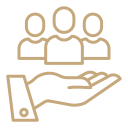
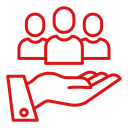
update-about-us-style

Changed region(s): [[0.0312, 0.0312, 0.9688, 0.9688]]

diff --git a/frontend/src/app/components/pages/about-us/about-us.component.css b/frontend/src/app/components/pages/about-us/about-us.component.css
@@ -1,3 +1,4 @@
+
 /****************************************image part1************************************/
 /**************************************************************************************/
 .pq-breadcrumb{
@@ -7,6 +8,12 @@
   background-size: cover;
   background-position: top center;
   height: 400px;
+  animation: fadeBackground 13s;
+  animation-fill-mode: forwards;
+}
+@keyframes fadeBackground {
+  from { background-image: url(https://cdn.pixabay.com/photo/2017/12/10/14/47/pizza-3010062_640.jpg); }
+  to { background-image: url(https://cdn.pixabay.com/photo/2016/11/06/23/31/breakfast-1804457_640.jpg); }
 }
 
 .pq-breadcrumb.container {
@@ -21,19 +28,19 @@ ol li {
 }
 .pq-breadcrumb-container a{
   text-decoration: none;
-  color: white;
+  color: black;
   font-size: 30px;
   font-family: 'Josefin Sans', sans-serif;
   /* font-weight: bold; */
 }
 .breadcrumb-item-active{
-  color: #c6a87d;
+  color: red;
   font-size: 30px;
   font-family: 'Josefin Sans', sans-serif;
-  margin-top: 7px;
+  /* margin-top: 7px; */
 }
 .breadcrumb-item span{
-  color: white;
+  color: rgb(220, 20, 20);
 }
 
 h3 {
@@ -59,12 +66,24 @@ li {
   align-items: center!important;
 }
 .pq-breadcrumb-title{
-  color: white;
-  font-size: 56px;
-  line-height: 64px;
-  margin-bottom: 15px;
-  font-family: 'Josefin Sans', sans-serif;
+  color: black;
+  font-size: 66px;
   font-weight: bold;
+  position: relative;
+  animation: slide-in 1s ease-in-out forwards;
+  opacity: 0;
+  right: -100%;
+}
+
+@keyframes slide-in {
+  0% {
+    opacity: 0;
+    right: -100%;
+  }
+  100% {
+    opacity: 1;
+    right: 0;
+  }
 }
 
 /****************************************End************************************/
@@ -89,20 +108,20 @@ li {
   padding: 35px;
 }
 .content span{
-  color: rgb(214, 192, 125);
+  color: rgb(220, 20, 20);
   font-family: 'Miniver', cursive;
   font-size: 28px;
 }
 .content h3{
-  color: white;
+  color: black;
   font-family: 'Josefin Sans', sans-serif;
   font-size: 45px;
   font-weight: bolder;
   display: inline;
 }
 .content p{
-  color: rgb(208, 201, 182);
-  font-family: 'Josefin Sans', sans-serif;
+  color: rgb(113, 111, 111);
+  /* font-family: 'Josefin Sans', sans-serif; */
   font-size: 28px;
   line-height: 1.3;
 }
@@ -112,38 +131,48 @@ li {
 } */
 .btn {
   align-items: center;
-  /* background-color: transparent; */
-  background-color: #13181c;
-  color: #c6a87d;
+  background-color: rgb(220, 20, 20);
+  color: white;
   cursor: pointer;
-  /* display: flex; */
-  font-family: 'Josefin Sans', sans-serif;  font-size: 1rem;
+  font-family: 'Josefin Sans', sans-serif;
+  font-size: 1rem;
   line-height: 1.5;
   text-decoration: none;
   outline: 0;
-  border: 1px solid #c6a87d;
+  border: 1px solid #dc1414;
   padding: 1rem;
   letter-spacing: 3px;
   width: 400px;
   justify-content: center;
   font-size: 24px;
+  position: relative;
 }
 
-.btn:before {
+.btn:after {
   content: "";
-  height: 1px;
-  margin-right: 10px;
-  transition: all .42s cubic-bezier(.25,.8,.25,1);
-  width: 0;
+  position: absolute;
+  left: 0;
+  bottom: 0;
+  width: 100%;
+  height: 2px;
+  background-color: white;
+  transform: scaleX(0);
+  transform-origin: left;
+  transition: transform 0.3s ease-in-out;
 }
 
+.btn:hover:after {
+  transform: scaleX(1);
+}
 .btn:hover:before {
   background-color: white;
   width: 3rem;
 }
 .btn:hover{
-  background-color: #c6a87d;
-  color: white;
+  background-color: white;
+  border: 1px solid rgb(220, 20, 20);
+  color: rgb(220, 20, 20);
+  font-weight: bold;
 }
 @media (max-width: 1768px){
   .btn{
@@ -186,15 +215,15 @@ li {
 }
 .box span{
   padding-top: 200px;
-  color: white;
+  color: rgb(220, 20, 20);
   font-family: 'Josefin Sans', sans-serif;
   font-size: 38px;
   font-weight: bold;
 
 }
 .box p{
-  color: rgb(208, 201, 182);
-  font-family: 'Josefin Sans', sans-serif;
+  color: black;
+  /* font-family: 'Josefin Sans', sans-serif; */
   font-size: 28px;
   line-height: 1.3;
 }
@@ -227,7 +256,7 @@ body::before{
   height: 100%;
 }
 ::selection{
-  background:    #c6a87d;
+  background:    rgb(220, 20, 20);
   color: #fff;
 }
 .team{
@@ -240,7 +269,7 @@ body::before{
 }
 .team h1{
   font-size: 35px;
-  color: rgb(214, 192, 125);
+  color: rgb(220, 20, 20);
   font-family: 'Miniver', cursive;
 }
 .container{
@@ -271,7 +300,7 @@ body::before{
 }
 .main-card .cards .card{
   width: calc(100% / 3 - 10px);
-  background: #080b0e;
+  background: white;
   border-radius: 12px;
   padding: 30px;
   box-shadow: 0 5px 10px rgba(0, 0, 0, 0.25);
@@ -293,7 +322,7 @@ body::before{
   width: 130px;
   border-radius: 50%;
   padding: 3px;
-  background: #c6a87d;
+  background: rgb(220, 20, 20);
   margin-bottom: 14px;
 }
 .card .content .img img{
@@ -306,10 +335,10 @@ body::before{
 .card .content .name{
   font-size: 22px;
   font-weight: 400;
-  color: white;
+  color: black;
 }
 .card .content .job{
-  color: rgb(208, 201, 182);
+  color: black;
   font-family: 'Josefin Sans', sans-serif;
   font-size: 28px;
   line-height: 1.3;
@@ -328,13 +357,13 @@ body::before{
   color: #FFF;
   border-radius: 50%;
   border: 2px solid transparent;
-  background: #c6a87d;
+  background: rgb(220, 20, 20);
   transition: all 0.3s ease;
 }
 .media-icons a:hover{
-  color: #c6a87d;
+  color: rgb(220, 20, 20);
   background-color: #fff;
-  border-color: #c6a87d;
+  border-color: rgb(220, 20, 20);
 }
  .container .button{
   width: 100%;
@@ -347,7 +376,7 @@ body::before{
   height: 15px;
   width: 15px;
   border-radius: 20px;
-  background: #fff;
+  background: rgb(220, 20, 20);
   margin: 0 4px;
   cursor: pointer;
   transition: all 0.5s ease;
@@ -392,7 +421,7 @@ input[type="radio"]{
   grid-template-columns: repeat(auto-fit, minmax(10px, 1fr));
   width: 100%;
   height: 300px;
-  background-color: #080b0e;
+  background-color: rgb(220, 20, 20);
   justify-content: center;
   text-align: center;
   padding-top: 50px;
@@ -408,11 +437,25 @@ input[type="radio"]{
   margin-top: 20px;
 }
 .count p{
-  color: rgb(208, 201, 182);
+  color: white;
   font-family: 'Josefin Sans', sans-serif;
   font-size: 28px;
   line-height: 1.3;
   margin-top: 8px;
+  position: relative;
+  animation: cafe-animation 3s ease-in-out infinite;
+}
+
+@keyframes cafe-animation {
+  0% {
+    transform: translateY(0);
+  }
+  50% {
+    transform: translateY(-10px);
+  }
+  100% {
+    transform: translateY(0);
+  }
 }
 @media (max-width: 768px){
   .count{

diff --git a/frontend/src/app/components/pages/about-us/about-us.component.html b/frontend/src/app/components/pages/about-us/about-us.component.html
@@ -3,9 +3,11 @@
 <link rel="stylesheet" href="https://cdnjs.cloudflare.com/ajax/libs/font-awesome/4.7.0/css/font-awesome.min.css">
 <link rel="stylesheet" href="https://cdnjs.cloudflare.com/ajax/libs/font-awesome/4.7.0/css/font-awesome.min.css">
 <div class="body">
+
+  
 <!-------------------------------------------------- image part1 --------------------------------->
 <!------------------------------------------------------------------------------------------>
-  <div class="pq-breadcrumb" style="background-image: url(https://peacefulqode.com/themes/millennium/html/images/blog/breadcrumb.jpg);">
+  <div class="pq-breadcrumb" style="background-image: url(https://cdn.pixabay.com/photo/2017/12/10/14/47/pizza-3010062_640.jpg);background-size: cover;height: 50vh;">
     <div class="container">
       <div class="row align-items-center">
         <div class="col-lg-12">
@@ -38,7 +40,7 @@
 <!------------------------------------------------------------------------------------------>
 
   <section class="about-us">
-    <img src="../../../assets/img/about-2.jpg">
+    <img src="https://images.pexels.com/photos/2097090/pexels-photo-2097090.jpeg?auto=compress&cs=tinysrgb&w=600">
     <div class="content">
       <span>Story About Us</span><br><br>
       <h3>That Flavors Within Wines.</h3>
@@ -47,7 +49,7 @@
         <div class="containerr">
             <div class="box">
               <div class="box2">
-                <img src="../../../assets/img/cutlery (1).png" width="86px">
+                <img src="../../../assets/img/cutlery.png" width="86px">
               </div>
               <div class="box2" style="width: 240px;" >
                 <span>Speciallst</span>
@@ -56,7 +58,7 @@
             </div>
             <div class="box">
               <div class="box2">
-                <img src="../../../assets/img/waiter.png" width="86px">
+                <img src="../../../assets/img/food.png" width="86px">
               </div>
               <div class="box2" style="width: 240px;">
                 <span>Services</span>
@@ -207,12 +209,12 @@
 <!------------------------------------------------------------------------------------------>
  <div class="count">
   <div class="box3">
-    <img src="../../../assets/img/waiter.png" width="86px">
+    <img src="../../../assets/img/food (g1).png" width="86px">
     <h1 class="sta" data-max="243">+243</h1>
     <p>Services</p>
   </div>
   <div class="box3">
-    <img src="../../../assets/img/value.png" width="86px">
+    <img src="../../../assets/img/value (d1).png" width="86px">
     <h1 class="sta" data-max="895">+895</h1>
     <p>Members</p>
   </div>
@@ -222,7 +224,7 @@
     <p>Meals</p>
   </div>
   <div class="box3">
-    <img src="../../../assets/img/cutlery (1).png" width="86px">
+    <img src="../../../assets/img/cutlery (f1).png" width="86px">
     <h1 class="sta" data-max="157">+157</h1>
     <p>Donations</p>
   </div>
